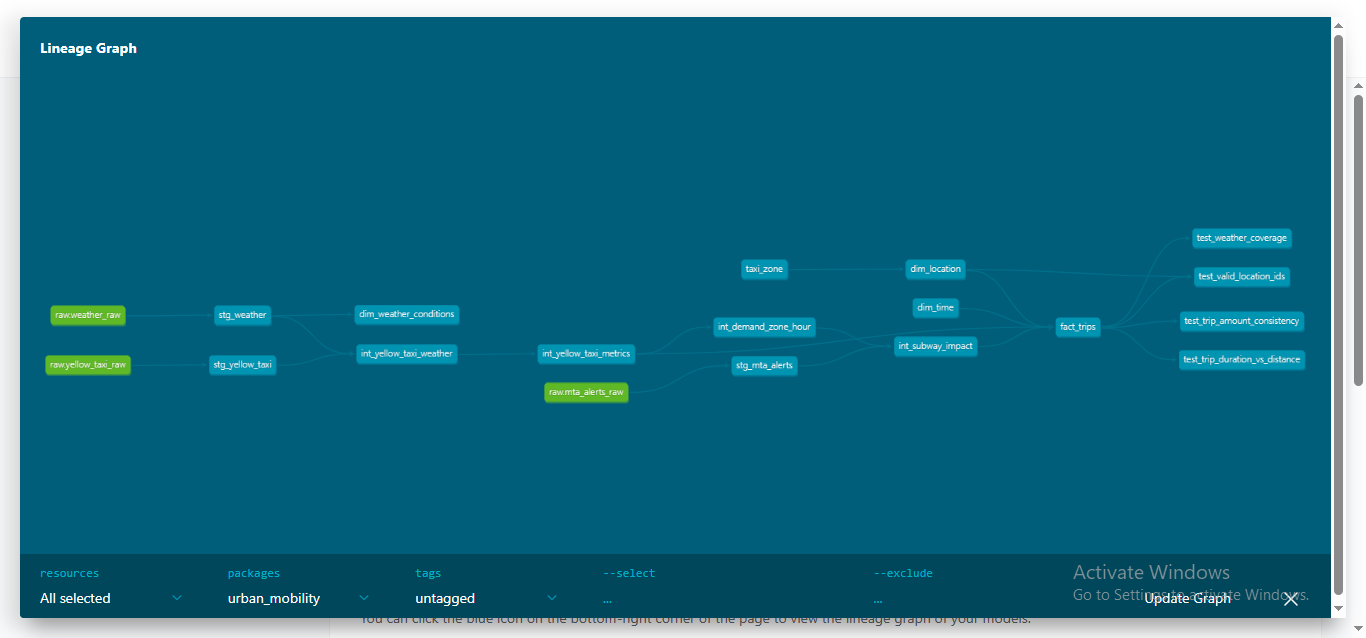
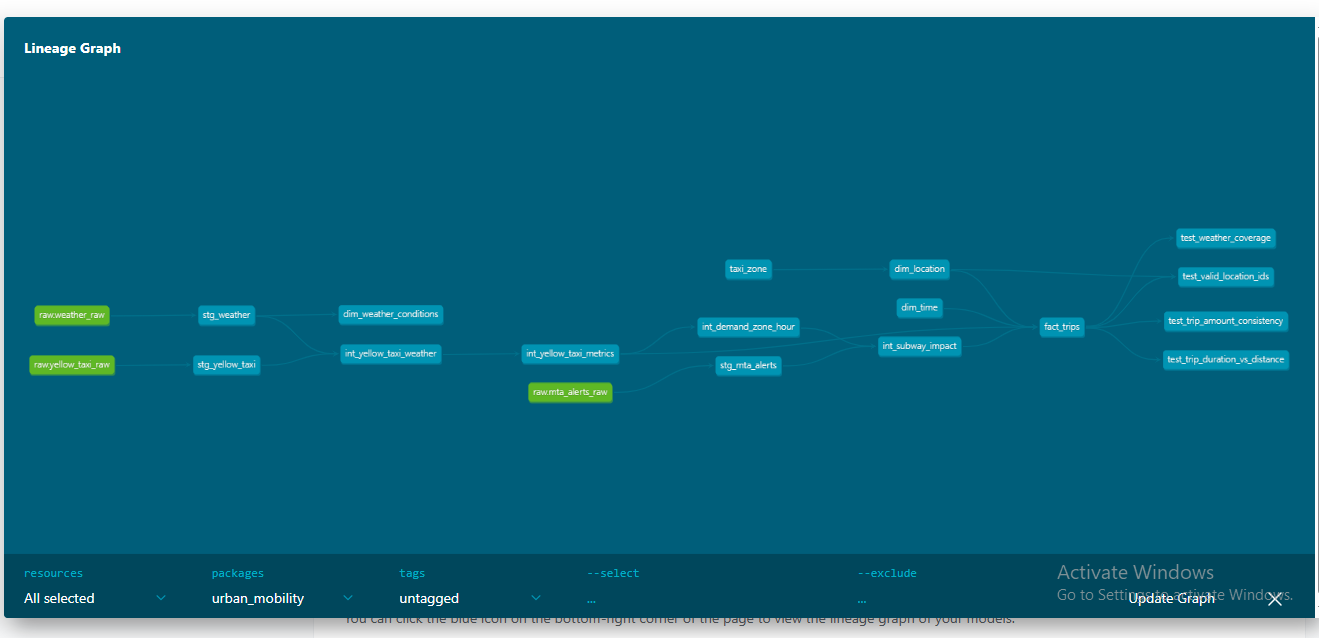
update

diff --git a/docs/decisions.md b/docs/decisions.md
@@ -1,148 +1,235 @@
 # Architecture & Technical Decision Log
 
-## ADR-001: Python Version Downgrade
-**Date:** 2026
-**Decision:** Downgraded from Python 3.13 → Python 3.11.9
-**Reason:** Python 3.13 was too new for most GCP packages (protobuf, dbt-bigquery).
-            Python 3.11.x is the current production-stable version for data engineering stacks.
-**Trade-off:** Lose access to Python 3.13 features (none relevant to this project).
+### ADR-001: Python Version Downgrade
+**Date:** 2026 <br>
+**Decision:** Downgraded from Python 3.13 - Python 3.11.9 <br>
+**Reason:** Python 3.13 incompatible with core GCP packages (protobuf, dbt-bigquery).
+            Python 3.11.x is the current production-stable version for data engineering. <br>
+**Trade-off:** No relevant Python 3.13 features lost for this project.
 
----
+<br>
+<br>
 
-## ADR-002: Apache Airflow Removed from Local Setup
-**Date:** 2026
-**Decision:** Removed apache-airflow from requirements.txt for local development.
-**Reason:** Airflow is not supported on Windows natively. Installing via WSL adds complexity
-            that is out of scope for this phase.
-**Alternative:** Orchestration will run on Google Cloud Composer (managed Airflow on GCP).
-                 DAG files will be written locally and deployed to Composer.
-**Trade-off:** Cannot test DAGs locally — will use Cloud Composer dev environment instead.
+### ADR-002: Apache Airflow Excluded from Local Environment
+**Date:** 2026 <br>
+**Decision:** Removed apache-airflow from requirements.txt. <br>
+**Reason:** Airflow has no native Windows support. Production orchestration
+            targets Google Cloud Composer (managed Airflow on GCP). <br>
+**Trade-off:** DAGs cannot be tested locally; deployed directly to Composer. <br>
 
----
+<br>
+<br>
 
-## ADR-003: Package Version Pinning Strategy
-**Date:** 2026
-**Decision:** Pinned all packages to exact versions tested and confirmed working.
-**Reason:** Protobuf version conflicts between google-cloud-* packages require careful alignment.
-**Versions confirmed working together:**
+### ADR-003: Exact Package Version Pinning
+**Date:** 2026 <br>
+**Decision:** All packages pinned to exact versions confirmed working together. <br>
+**Reason:** Protobuf conflicts between google-cloud packages require precise alignment. <br>
+**Confirmed versions:** <br>
 - google-cloud-storage==2.18.2
 - google-cloud-bigquery==3.25.0
 - google-cloud-bigquery-storage==2.27.0
-- dbt-bigquery==1.9.0
-- dbt-core==1.9.0
+- dbt-bigquery==1.9.0 / dbt-core==1.9.0
 - great-expectations==0.18.19
 
----
+<br>
+<br>
 
-## ADR-004: Install Strategy — Binary-Only
-**Date:** 2026
-**Decision:** Used `pip install --only-binary=:all:` for all package installations.
-**Reason:** Avoids C compiler dependency issues on Windows for packages like pyarrow and grpcio.
-**Trade-off:** Slightly less flexibility if a pre-built wheel is unavailable for a package,
-              but all required packages have Windows wheels available.
+### ADR-004: Binary-Only Package Installation
+**Date:** 2026 <br>
+**Decision:** All packages installed via `pip install --only-binary=:all:`. <br>
+**Reason:** Avoids C compiler dependency failures on Windows for packages
+            like pyarrow and grpcio. <br>
+**Trade-off:** Negligible; all required packages have Windows wheels available.
 
----
+<br>
+<br>
 
-## ADR-005: MTA Synthetic Data Fallback
-**Date:** 2026
-**Decision:** MTA ingestion script generates synthetic alert data when
-              the live API is unavailable or returns no historical data.
-**Reason:** The MTA real-time API is designed for live feeds, not historical
-            backfills. Historical alert archives are inconsistently available.
-            Synthetic data allows full pipeline testing and dbt model validation
-            without blocking progress on downstream layers.
-**Trade-off:** Synthetic MTA data means subway-to-taxi correlation analysis
-               uses estimated disruption patterns, not verified historical events.
-               All synthetic records are flagged with is_synthetic=True so they
-               can be filtered or replaced when real data becomes available.
-**Production path:** Replace with MTA historical GTFS archive files when
-                     available from the MTA developer portal.
-**Live API finding:** The MTA GTFS-RT endpoint returns 403 Forbidden without
-                      an API key. Free developer keys are available at https://api.mta.info 
-                      but historical backfill via this endpoint is not supported. 
-                      Synthetic data remains the correct approach for the Nov 2025 - Jan 2026 window.             
+### ADR-005: MTA Synthetic Data Fallback
+**Date:** 2026 <br>
+**Decision:** MTA ingestion generates synthetic alert data when the live API
+              is unavailable. <br>
 
----
+**Reason:** MTA GTFS-RT endpoint returns 403 Forbidden without an API key.
+            Historical backfill is not supported via this endpoint.
+            Synthetic data enables full pipeline and dbt model validation. <br>
 
-## ADR-006: Resumable GCS Uploads with Exponential Backoff
-**Date:** 2026
-**Problem:** Initial upload_from_filename() calls failed mid-transfer on
-             60-70MB files due to residential connection instability.
-             Two failure modes observed: WriteTimeout and SSLEOFError.
+**Trade-off:** Subway-to-taxi correlation analysis uses estimated disruption
+               patterns, not verified historical events. All synthetic records
+               flagged with is_synthetic=TRUE for downstream filtering. <br>
+               
+**Production path:** Replace with MTA historical GTFS archive files from
+                     the MTA developer portal when available. <br>
+
+<br>
+<br>
+
+### ADR-006: Resumable GCS Uploads with Exponential Backoff
+**Date:** 2026 <br>
 **Decision:** Switched to chunked resumable uploads (8MB chunks) with
-              exponential backoff retry policy (max 5 attempts, 10-min deadline).
-**Reason:** GCS resumable uploads checkpoint progress at each chunk boundary.
-            A dropped connection resumes from the last successful chunk,
-            not from zero. This is the GCP-recommended approach for files
-            over 5MB in production pipelines.
-**Trade-off:** Slightly more complex upload code, but eliminates re-download
+              exponential backoff retry (max 5 attempts, 10-min deadline). <br>
+
+**Reason:** Initial upload_from_filename() calls failed mid-transfer on
+            60-70MB files due to connection instability. GCS resumable
+            uploads checkpoint at each chunk boundary; a dropped connection
+            resumes from the last successful chunk, not from zero. <br>
+
+**Trade-off:** Marginally more complex upload code; eliminates re-download
                cost on connection failure.
 
+<br>
+<br>
 
----
+### ADR-007: BigQuery and GCS Co-located in us-central1
+**Date:** 2026 <br>
+**Decision:** All BigQuery datasets and the GCS bucket created in us-central1. <br>
 
+**Reason:** BigQuery load jobs from GCS are free within the same region.
+            Cross-region transfers incur data egress costs that compound
+            at production data volumes. <br>
 
-## ADR-007: BigQuery and GCS in Same Region (us-central1)
+**Trade-off:** Slightly higher latency for non-US users; acceptable for a
+               batch analytics platform where queries are not latency-sensitive. 
+
+<br>
+<br>
+
+### ADR-008: Raw Table Loaded Without Explicit Partitioning
+**Date:** 2026 <br>
+**Decision:** yellow_taxi_raw loaded with schema auto-detected from Parquet.
+              No partitioning applied at the raw layer. <br>
+
+**Reason:** BigQuery console requires explicit schema definition before
+            enabling partition-by-field. Defining schema at load time
+            duplicates logic that belongs in dbt staging. Raw is only
+            read by dbt; never by analysts directly. <br>
+
+**Recovery:** Partitioning and clustering applied at the marts layer on
+              fact_trips where query cost optimisation matters. <br>
+
+**Trade-off:** Raw table queries scan the full table. Acceptable since raw
+               is only accessed by pipeline processes. 
+
+<br>
+<br>
+
+### ADR-009: Corrupt Timestamp Handling in Raw TLC Data
 **Date:** 2026
-**Decision:** All BigQuery datasets and GCS bucket created in us-central1.
-**Reason:** BigQuery load jobs from GCS are free when source and destination
-            are in the same region. Cross-region transfers incur data egress
-            costs that compound significantly at production data volumes.
-**Trade-off:** Slightly higher latency for users outside the US — acceptable
-               for a batch analytics platform where queries are not
-               latency-sensitive.
+**Finding:** Raw yellow_taxi_raw contains trips with impossible timestamps; 
+             3 trips dated 2008-2009 (vendor clock errors) and 22 trips
+             outside the Nov 2025-Jan 2026 window (month boundary overflow). <br>
 
----
+**Decision:** Filtered in dbt staging using:
+              WHERE pickup_datetime BETWEEN '2025-11-01' AND '2026-01-31' <br>
 
-## ADR-011: dim_location Demand Category is Static Classification
-**Date:** 2026
-**Decision:** demand_category in dim_location uses TLC service zone
-              definitions rather than measured trip volume from actual data.
-**Reason:** dim_location is a dimension table referenced by fact_trips.
-            Computing demand from trip counts would create a circular
-            dependency in the dbt DAG.
+**Reason:** Raw layer preserves source data exactly as received. Cleaning
+            happens in staging so raw always reflects what TLC actually sent. <br>
+
+**Impact:** 25 rows excluded out of 12,211,339 total (0.0002%).
+
+<br>
+<br>
+
+### ADR-010: Intermediate Models Write to Staging Dataset
+**Date:** 2026 <br>
+**Decision:** Intermediate models write to the staging BigQuery dataset
+              rather than a dedicated intermediate dataset. <br>
+
+**Reason:** dbt schema routing caused dataset name doubling
+            (staging_staging) in this environment. Layers are separated
+            by naming convention (int_ prefix) rather than dataset boundary. <br>
+
+**Trade-off:** Less visual separation in BigQuery console. Production would
+               use a dedicated intermediate dataset with a custom schema macro.
+
+<br>
+<br>
+
+### ADR-011: dim_location Demand Category is Static Classification
+**Date:** 2026 <br>
+**Decision:** demand_category uses TLC service zone definitions rather than
+              measured trip volume from actual data. <br>
+
+**Reason:** dim_location is referenced by fact_trips. Computing demand from
+            trip counts would create a circular dependency in the dbt DAG. <br>
+
 **Known limitation:** A zone classified as high_demand by TLC designation
-                      may have low actual demand in the Nov 2025-Jan 2026
-                      window due to seasonal or external factors.
-**Future improvement:** Build a separate mart aggregating actual trips per
-                        zone and join back to dim_location for a
-                        data-driven demand score.
+                      may not reflect actual demand in the Nov 2025-Jan 2026
+                      window. <br>
 
----
+**Future improvement:** Build a separate mart aggregating trips per zone
+                        and join back for a data-driven demand score.
 
-## ADR-012: Surrogate Key Strategy for fact_trips
-**Date:** 2026
-**Finding:** 564 duplicate trip records exist in the source TLC data,
-             all from vendor_id=2 (VeriFone). These are hardware-level
-             duplicates where the meter recorded the same trip twice
-             with identical timestamps, locations, and fare amounts.
-**Decision:** Extended surrogate key to include trip_distance_miles and
-              passenger_count in addition to pickup_datetime,
-              pickup_location_id, dropoff_location_id, vendor_id,
-              and fare_amount.
-**Trade-off:** Surrogate key now uses 7 fields. If all 7 fields are
-               identical across two rows, both rows will still share
-               a trip_id — but this scenario is statistically negligible
-               at 12M row scale.
+<br>
+<br>
 
+### ADR-012: Surrogate Key Strategy for fact_trips
+**Date:** 2026 <br>
+**Finding:** 564 duplicate trip records in source TLC data; all vendor_id=2
+             (VeriFone) hardware-level duplicates where the meter recorded
+             the same trip twice with identical field values. <br>
 
----
+**Decision:** Seven-field surrogate key (pickup_datetime, dropoff_datetime,
+              pickup_location_id, dropoff_location_id, vendor_id, fare_amount,
+              trip_distance_miles, passenger_count) plus ROW_NUMBER()
+              deduplication in fact_trips as final safety net. <br>
+              
+**Trade-off:** If all seven fields are identical across two rows, both rows
+               share a trip_id; statistically negligible at 12M row scale.
 
-## ADR-013: Data Quality Observations in fact_trips
-**Date:** 2026
-**Finding 1 — Negative Adjustments (10,746 trips)**
-total_amount < fare_amount in 10,746 trips. Investigation shows these
-are legitimate TLC vendor adjustment records where dispute credits
-produce a lower total than the metered fare. Not a pipeline error.
-Treatment: converted test to WARN severity for ongoing monitoring.
+<br>
+<br>
 
-**Finding 2 — Impossible Speed Records (287 trips)**
-287 trips show distances over 100 miles completed in under 30 minutes —
-physically impossible. Source: GPS or meter hardware errors in vendor
-systems. Statistically negligible at 0.002% of 12M trip dataset.
-Treatment: converted test to WARN severity for ongoing monitoring.
+### ADR-013: Data Quality Observations — fact_trips
+**Date:** 2026 <br>
 
-**Decision:** Both findings preserved in fact_trips for analytical
-transparency. Analysts can filter using trip_distance_miles and
-total_amount if needed. Raw layer retains all original records
-per ADR-009 raw preservation policy.
+**Finding 1 - Negative Adjustments (10,746 trips)** <br>
+total_amount < fare_amount in 10,746 trips. These are legitimate TLC vendor
+adjustment records where dispute credits produce a lower total than the
+metered fare. Average gap: $3.98. Min total_amount: $0.00 (voided trips).
+Treatment: dbt test configured to WARN severity for ongoing monitoring. 
+
+<br>
+
+**Finding 2: Impossible Speed Records (287 trips)** <br>
+287 trips show distances over 100 miles in under 30 minutes; GPS or meter
+hardware errors. Statistically negligible at 0.002% of total dataset.
+Treatment: dbt test configured to WARN severity for ongoing monitoring. <br>
+
+**Decision:** Both findings preserved in fact_trips for analytical transparency.
+              Raw layer retains all original records per ADR-009.
+
+<br>
+<br>
+
+### ADR-014: Outlier Filtering Tightened in stg_yellow_taxi
+**Date:** 2026 <br>
+
+**Finding:** Power BI dashboard review revealed physically impossible records 
+             surviving initial staging filters: <br>
+             - 49,126 trips over 90 minutes duration
+             - 3,925 trips over 40 miles distance
+             - 38,157 trips with fare over $100
+             - Total: 84,822 rows (0.76% of 11.17M trips)
+             - Symptom: avg_speed values of 272,000+ mph in dashboard <br>
+
+**Root Cause:** Initial upper bound of trip_duration_minutes < 300 was too
+               permissive. No upper bounds existed for distance or fare,
+               allowing GPS errors and meter malfunctions through. <br>
+
+**Decision:** Staging filters tightened to: <br>
+             - trip_duration_minutes <= 90 (covers JFK runs, longest realistic trip)
+             - trip_distance_miles <= 40 (covers all five boroughs and both airports)
+             - fare_amount <= 150 (covers JFK flat rate and all legitimate metered fares) <br>
+
+**Fare distribution analysis confirming $150 cutoff:** <br>
+             93.11% of trips under $50; consistent with NYC street hails
+             6.55% between $50-$100; airport runs and long metered trips
+             0.26% between $100-$150; retained, legitimate long trips
+             0.08% above $150; removed, confirmed meter malfunctions <br>
+ 
+**Impact:** 84,822 rows removed (0.76%). Core KPI metrics unaffected.
+            All downstream models rebuilt after filter update. <br>
+
+**Note:** Dashboard-driven data validation caught what automated schema
+            tests did not. Visual review is a necessary complement to
+            programmatic data quality testing in production pipelines.